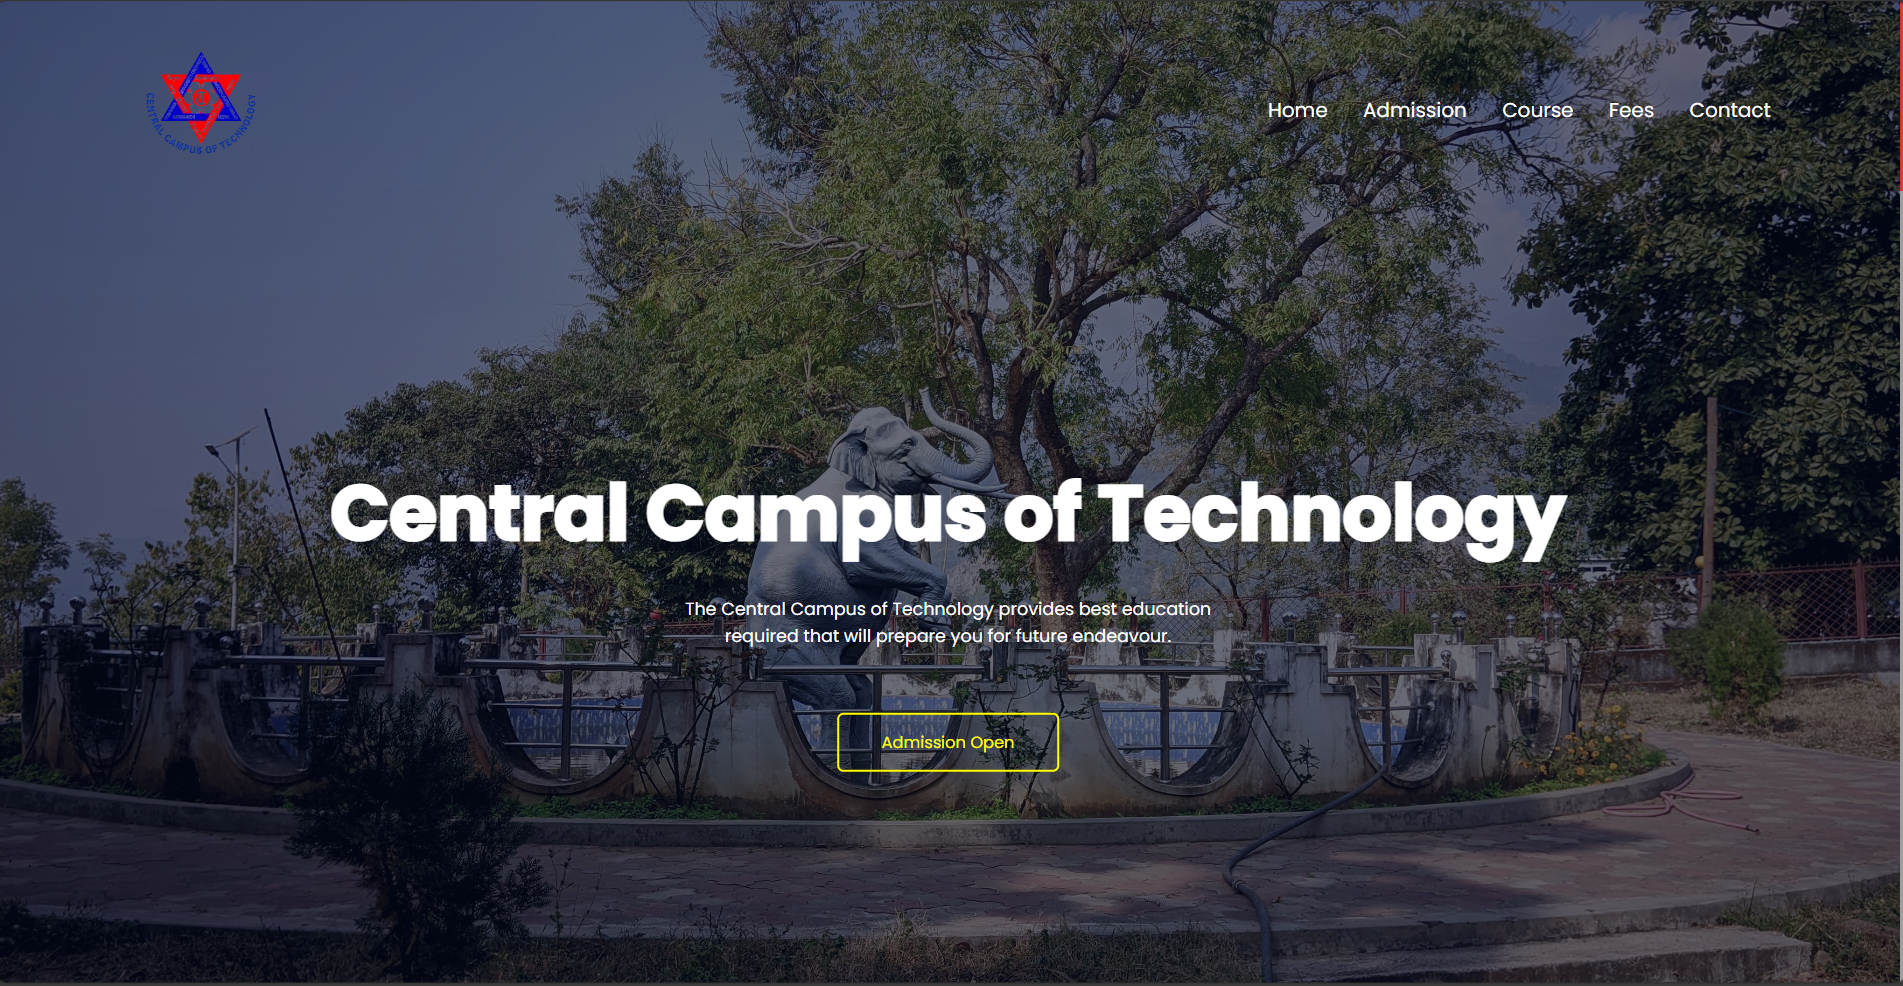
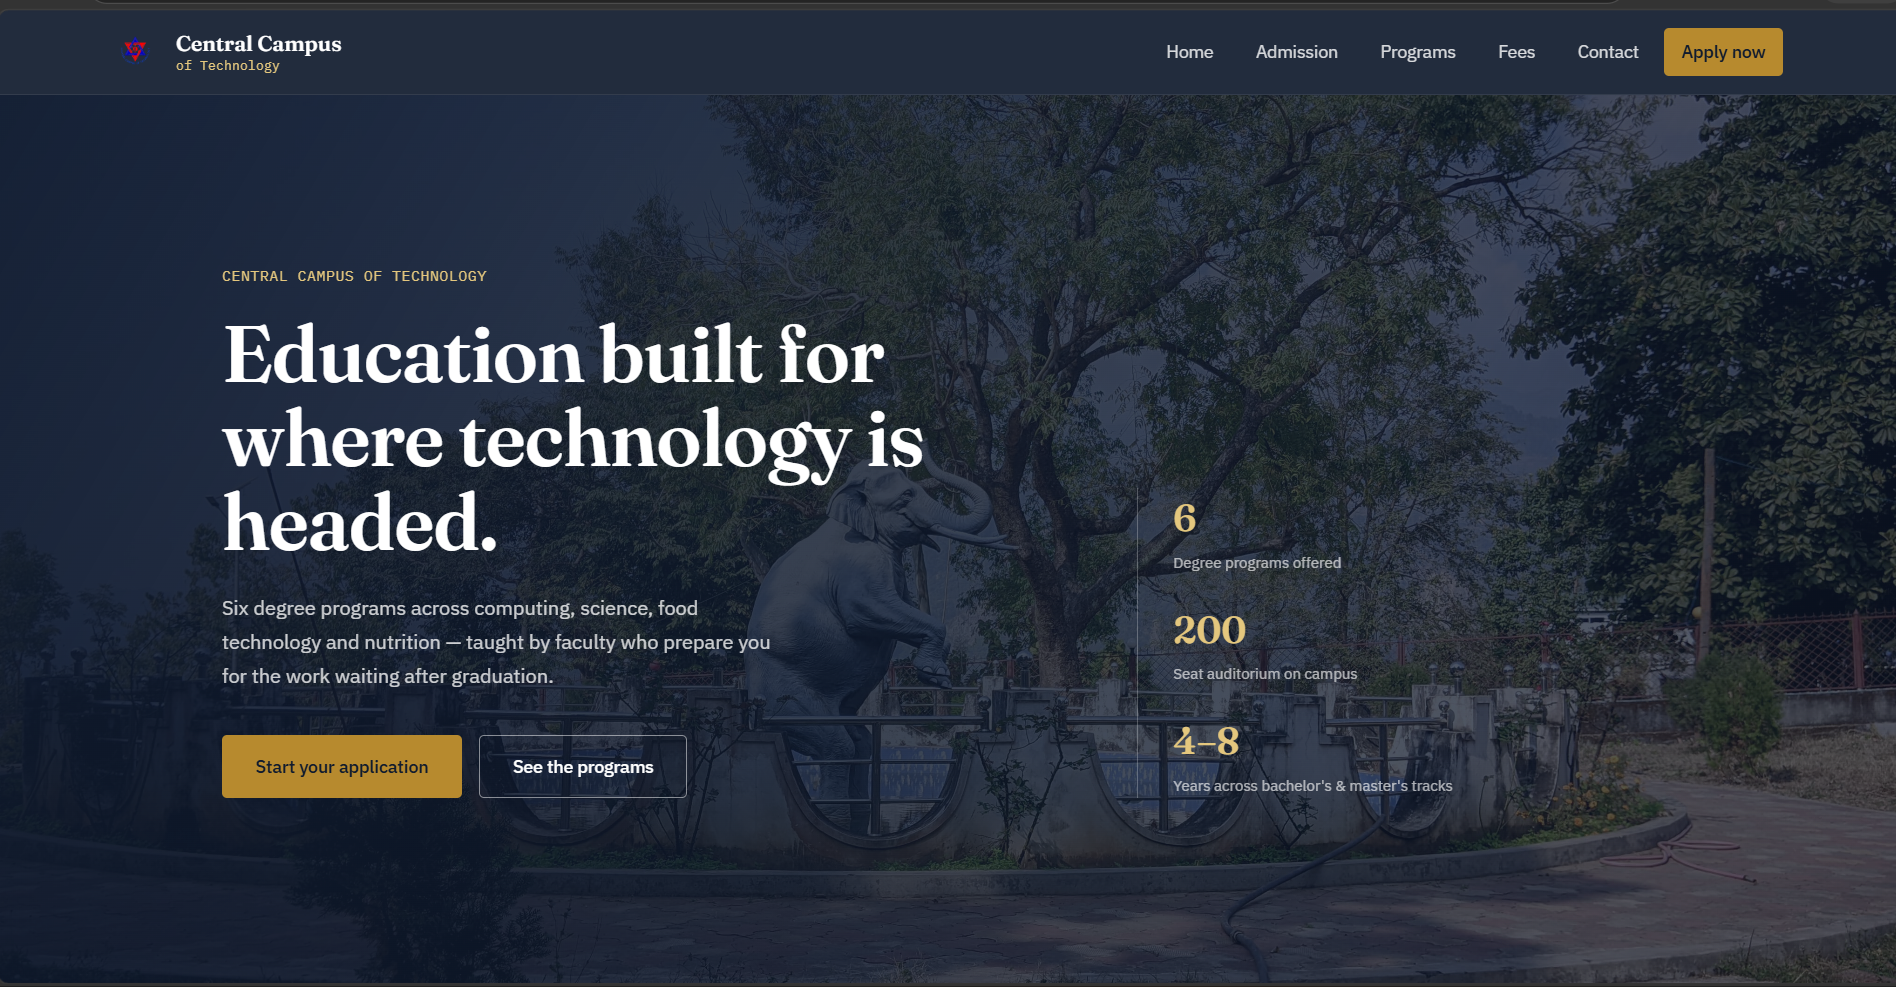
experience section added and othewr change also

diff --git a/connect.html b/connect.html
@@ -4,7 +4,7 @@
 <head>
   <meta charset="UTF-8" />
   <meta name="viewport" content="width=device-width, initial-scale=1" />
-  <title>Puskar Kumar Thakur — Portfolio</title>
+  <title>Puskar Kumar Thakur — Portfolio Card</title>
   <meta name="description" content="Portfolio of Puskar Kumar Thakur — skills, certificates, and projects." />
   <link rel="icon" href="./assests/logo.png" type="image/png" />
   <link rel="preconnect" href="https://fonts.googleapis.com">
@@ -185,10 +185,10 @@
     }
 
     .hero p {
-      color: var(--text-muted);
+      color: var(-crimson);
       max-width: 52ch;
       margin-top: 14px;
-      font-size: 1.02rem;
+      font-size: .85rem;
       line-height: 1.6;
     }
 
@@ -410,6 +410,93 @@
       color: var(--gold);
     }
 
+    .timeline {
+      position: relative;
+      margin-top: 28px;
+      padding-left: 0;
+    }
+
+    .tl-item {
+      display: grid;
+      grid-template-columns: 44px 1fr;
+      gap: 16px;
+      padding: 22px 0;
+      border-top: 1px solid var(--border);
+    }
+
+    .tl-item:first-child {
+      border-top: none;
+      padding-top: 0;
+    }
+
+    .tl-logo {
+      width: 44px;
+      height: 44px;
+      border-radius: 10px;
+      flex-shrink: 0;
+      display: flex;
+      align-items: center;
+      justify-content: center;
+      font-family: 'IBM Plex Mono', monospace;
+      font-weight: 600;
+      font-size: .85rem;
+      color: #fff;
+      background: linear-gradient(135deg, var(--crimson), var(--gold));
+    }
+
+    .tl-role {
+      font-family: 'Fraunces', serif;
+      font-weight: 700;
+      font-size: 1.08rem;
+    }
+
+    .tl-org {
+      font-size: .88rem;
+      color: var(--text);
+      margin-top: 2px;
+    }
+
+    .tl-org .type {
+      color: var(--text-muted);
+    }
+
+    .tl-meta {
+      font-family: 'IBM Plex Mono', monospace;
+      font-size: .72rem;
+      color: var(--text-muted);
+      margin-top: 6px;
+      display: flex;
+      flex-wrap: wrap;
+      gap: 4px 10px;
+    }
+
+    .tl-meta span {
+      display: flex;
+      align-items: center;
+      gap: 5px;
+    }
+
+    .tl-meta i {
+      color: var(--gold);
+      font-size: .68rem;
+    }
+
+    .tl-tags {
+      display: flex;
+      flex-wrap: wrap;
+      gap: 8px;
+      margin-top: 12px;
+    }
+
+    .tl-tags span {
+      font-family: 'IBM Plex Mono', monospace;
+      font-size: .68rem;
+      color: var(--gold);
+      border: 1px solid var(--border);
+      padding: 3px 10px;
+      border-radius: 999px;
+    }
+
     .contact-grid {
       display: grid;
       grid-template-columns: repeat(auto-fit, minmax(160px, 1fr));
@@ -593,6 +680,7 @@
         <a href="#skills">Skills</a>
         <a href="#achievements">Achievements</a>
         <a href="#projects">Projects</a>
+        <a href="#experience">Experience</a>
         <a href="#contact">Contact</a>
       </nav>
       <div class="nav-actions">
@@ -606,10 +694,12 @@
   <main class="wrap">
     <section class="hero" id="about" style="border-top:none;">
       <div>
-        <p class="eyebrow">Portfolio</p>
+        <p class="eyebrow">Who I am</p>
         <h1>Hi, I'm Puskar Kumar Thakur.</h1>
-        <p>I'm a student with a passion for IT — exploring new technologies and building projects that make a small dent
-          in the world, one commit at a time.</p>
+        <p>I’m a BIT student at Tribhuvan University (Batch 2081) and a passionate Frontend Developer focused on UI/UX
+          and Mobile App Development. I love turning ideas into responsive, user-friendly digital experiences using
+          modern web and app technologies. I’m always learning, building, and exploring new ways to create meaningful
+          tech solutions for students and communities.</p>
         <div class="hero-meta" style="margin-top:22px;">
           <span><i class="fa-solid fa-location-dot"></i>Dharan, Sunsari, Koshi Province, Nepal</span>
           <span><i class="fa-solid fa-graduation-cap"></i> IT Student</span>
@@ -644,6 +734,10 @@
         <a class="skill" href="certificate/Flutter A Hands on Workshop on Mobile App Development.jpg" target="_blank"
           rel="noopener">
           <i class="fa-brands fa-dart-lang"></i><span>Dart</span>
+        </a>
+        <a class="skill" href="certificate/Flutter A Hands on Workshop on Mobile App Development.jpg" target="_blank"
+          rel="noopener">
+          <i class="fa-brands fa-flutter"></i></i><span>Flutter</span>
         </a>
         <a class="skill" href="https://tailwindcss.com" target="_blank" rel="noopener">
           <i class="fa-solid fa-wind"></i><span>Tailwind CSS</span>
@@ -702,7 +796,7 @@
         <article class="proj-card" data-cat="web" onclick="openProject(this)"
           data-img="./assests/Project screenshot/bit batch 2081.png" data-title="BIT Batch 2081 Website"
           data-desc="Inspired by a tutorial, customized with my own enhancements."
-          data-git="https://github.com/thakurpuskar/BIT-Batch-2081" data-live="https://bit-batch-2081.vercel.app/">
+          data-git="https://github.com/thakurpuskar/bit2081batchwebsite" data-live="https://bit2081batch.vercel.app/">
           <img src="./assests/Project screenshot/bit batch 2081.png" alt="BIT Batch 2081 website screenshot" />
           <div class="proj-body">
             <h4>BIT Batch 2081 Website</h4>
@@ -721,6 +815,51 @@
             <span class="proj-tag">Mobile</span>
           </div>
         </article>
+      </div>
+    </section>
+    <section id="experience">
+      <p class="eyebrow">Where I've been</p>
+      <h2>Experience</h2>
+      <div class="timeline">
+
+        <div class="tl-item">
+          <div class="tl-logo">FR</div>
+          <div>
+            <div class="tl-role">Human Resources Manager</div>
+            <p class="tl-org">Fifteen Roots · <span class="type">Full-time</span></p>
+            <div class="tl-meta">
+              <span><i class="fa-solid fa-calendar"></i> Sep 2026 – Present · 1 mo</span>
+              <span><i class="fa-solid fa-location-dot"></i> Kosi Zone, Nepal · On-site</span>
+            </div>
+          </div>
+        </div>
+
+        <div class="tl-item">
+          <div class="tl-logo">LC</div>
+          <div>
+            <div class="tl-role">Vice President</div>
+            <p class="tl-org">Leo Club of Dharan Vijayapur · <span class="type">Part-time</span></p>
+            <div class="tl-meta">
+              <span><i class="fa-solid fa-calendar"></i> Jul 2026 – Present · 3 mos</span>
+              <span><i class="fa-solid fa-location-dot"></i> Dharan, Kosi Zone, Nepal · Hybrid</span>
+            </div>
+            <div class="tl-tags"><span>Leadership</span><span>Team Leadership</span></div>
+          </div>
+        </div>
+
+        <div class="tl-item">
+          <div class="tl-logo">ITA</div>
+          <div>
+            <div class="tl-role">Executive Committee Member</div>
+            <p class="tl-org">Information Technology Alliance – ITA · <span class="type">Full-time</span></p>
+            <div class="tl-meta">
+              <span><i class="fa-solid fa-calendar"></i> Apr 2025 – Present · 1 yr 6 mos</span>
+              <span><i class="fa-solid fa-location-dot"></i> Dharan, Kosi Zone, Nepal · On-site</span>
+            </div>
+            <div class="tl-tags"><span>Team Leadership</span><span>Leadership</span></div>
+          </div>
+        </div>
+
       </div>
     </section>
     <section id="contact">

diff --git a/index.html b/index.html
@@ -4,7 +4,7 @@
 <head>
   <meta charset="UTF-8" />
   <meta name="viewport" content="width=device-width, initial-scale=1" />
-  <title>Puskar Kumar Thakur — Web Developer</title>
+  <title>Puskar Kumar Thakur — Portfolio Card</title>
   <meta name="description"
     content="Puskar Kumar Thakur, web developer and IT student from Nepal. Building responsive, user-friendly digital experiences." />
   <link rel="icon" href="./assests/logo.png" type="image/png">
@@ -453,7 +453,7 @@
       <button class="modal-close" id="modalClose" aria-label="Close">&times;</button>
       <img src="./assests/profile.jpg" alt="Puskar Kumar Thakur" />
       <h2 id="modalName">Puskar Kumar Thakur</h2>
-      <p class="role">Web Developer · UI Designer · Tech Enthusiast · Human Resource Manager</p>
+      <p class="role">Web Developer · UI/UX Designer · Tech Enthusiast · Human Resource Manager . Vice President</p>
       <p class="desc">Based in Nepal. I build responsive websites and enjoy turning ideas into user-friendly digital
         experiences.</p>
     </div>
@@ -547,7 +547,7 @@
     }
     const lines = [
       { prompt: 'who am i', out: 'Puskar Kumar Thakur' },
-      { prompt: 'role current', out: 'Human Resource Manager at Fifteen Roots' },
+      { prompt: 'role current', out: 'Human Resource Manager at Fifteen Roots and IT student' },
       { prompt: 'location', out: 'Dharan, Sunsari, Koshi Province, Nepal 🇳🇵' },
       { prompt: 'status', out: 'Open to internships & collaborations' }
     ];
@@ -579,7 +579,7 @@
         await new Promise(r => setTimeout(r, 260));
       }
     }
-    const roles = ["Web Developer", "UI Designer", "Tech Enthusiast", "Human Resource Manager"];
+    const roles = ["Web Developer", "UI Designer", "Tech Enthusiast", "Human Resource Manager", "Vice President"];
     const roleLine = document.getElementById('roleLine');
     let ri = 0, ci = 0, deleting = false;
     function roleTick() {
